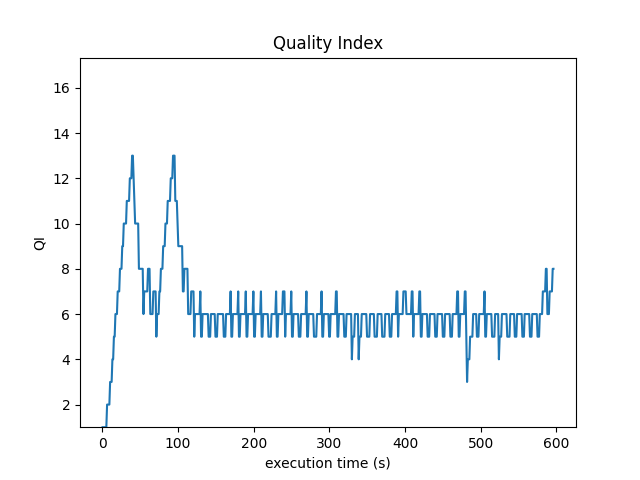
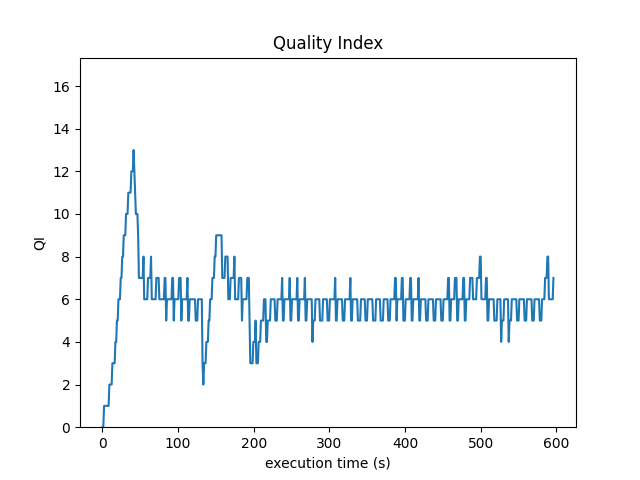
New way of calculating smoothness and performance weights.

diff --git a/r2a/r2a_bola.py b/r2a/r2a_bola.py
@@ -4,54 +4,71 @@ from player.parser import *
 import time
 from statistics import mean
 from base.whiteboard import Whiteboard
+from base.configuration_parser import ConfigurationParser
 
 
 class R2A_Bola(IR2A):
 
-    qualities = []
+    _qualities = []
 
-    paramNotRebuffer = 0.5  # (gama)
+    _smoothness_weight = 0.0  # (\gama)
 
-    paramBufferVsPerformance = 0.0  # (V)
+    _performance_weight = 0.0  # (V)
 
     def __init__(self, id):
         IR2A.__init__(self, id)
 
-    def utility(self, quality):  # (v_m)
-        return math.log(quality / min(self.qualities))
+    def _utility(self,  quality):
+        return math.log(quality / min(self._qualities))
 
-    def phi(self, quality, bufferSize):
-        return (self.paramBufferVsPerformance * self.utility(quality)
-                + self.paramBufferVsPerformance * self.paramNotRebuffer * 1
-                - bufferSize) / quality
+    def _trend_to_download(self, quality, buffer_size):
+        return (
+            self._performance_weight * self._utility(quality)
+            + self._performance_weight * self._smoothness_weight
+            - buffer_size
+        ) / quality
+
+    def _select_quality(self, buffer_size):
+        selected_quality = None
+        max_trend = -math.inf
+        for quality in self._qualities:
+            quality_trend = self._trend_to_download(quality, buffer_size)
+            if quality_trend >= max_trend:
+                selected_quality = quality
+                max_trend = quality_trend
+        return selected_quality
 
     def handle_xml_request(self, msg):
         self.send_down(msg)
 
     def handle_xml_response(self, msg):
         parsed_mpd = parse_mpd(msg.get_payload())
-        self.qualities = parsed_mpd.get_qi()
-        maxQuality = self.qualities[len(self.qualities) - 1]
-        self.paramBufferVsPerformance = (
-            60 - 1) / (self.utility(maxQuality) + self.paramNotRebuffer)
+        self._qualities = parsed_mpd.get_qi()
+        max_buffer_size = ConfigurationParser.get_instance().get_parameter('max_buffer_size')
+        min_quality = self._qualities[0]
+        snd_quality = self._qualities[1]
+        max_quality = self._qualities[len(self._qualities) - 1]
+        self._smoothness_weight = (
+            (max_buffer_size - 1)
+            * (self._utility(min_quality) * snd_quality - self._utility(snd_quality) * min_quality)
+            - 2 * self._utility(max_quality) * (snd_quality - min_quality)
+        ) / (
+            (snd_quality - min_quality) * (2 - max_buffer_size)
+        )
+        self._performance_weight = (
+            max_buffer_size - 1) / (self._utility(max_quality) + self._smoothness_weight)
         self.send_up(msg)
+        print('Qualities: ', self._qualities)
+        print('Min quality: ', min_quality)
+        print('Second quality: ', snd_quality)
+        print('Max quality: ', max_quality)
+        print('Smoothness weight: ', self._smoothness_weight)
+        print('Performance weight: ', self._performance_weight)
 
     def handle_segment_size_request(self, msg):
-        msg.add_quality_id(self.qualities[0])
-        selectedQuality = self.qualities[0]
-        print("AMOUNT OF VIDEO TO PLAY", Whiteboard.get_instance().get_amount_video_to_play())
-        print("PLAYBACK BUFFER SIZE", len(Whiteboard.get_instance().get_playback_buffer_size()))
-        print("BUFFER", Whiteboard.get_instance().get_buffer())
-        bufferSize = Whiteboard.get_instance().get_amount_video_to_play()
-        maxPhi = -math.inf;
-        print("BUFFER SIZE", bufferSize)
-        for quality in self.qualities:
-            currentPhi = self.phi(quality, bufferSize) 
-            if currentPhi >= maxPhi:
-                maxPhi = currentPhi
-                selectedQuality = quality
-        print("QUALITY", selectedQuality)
-        msg.add_quality_id(selectedQuality)
+        buffer_size = Whiteboard.get_instance().get_amount_video_to_play()
+        selected_quality = self._select_quality(buffer_size)
+        msg.add_quality_id(selected_quality)
         self.send_down(msg)
 
     def handle_segment_size_response(self, msg):
